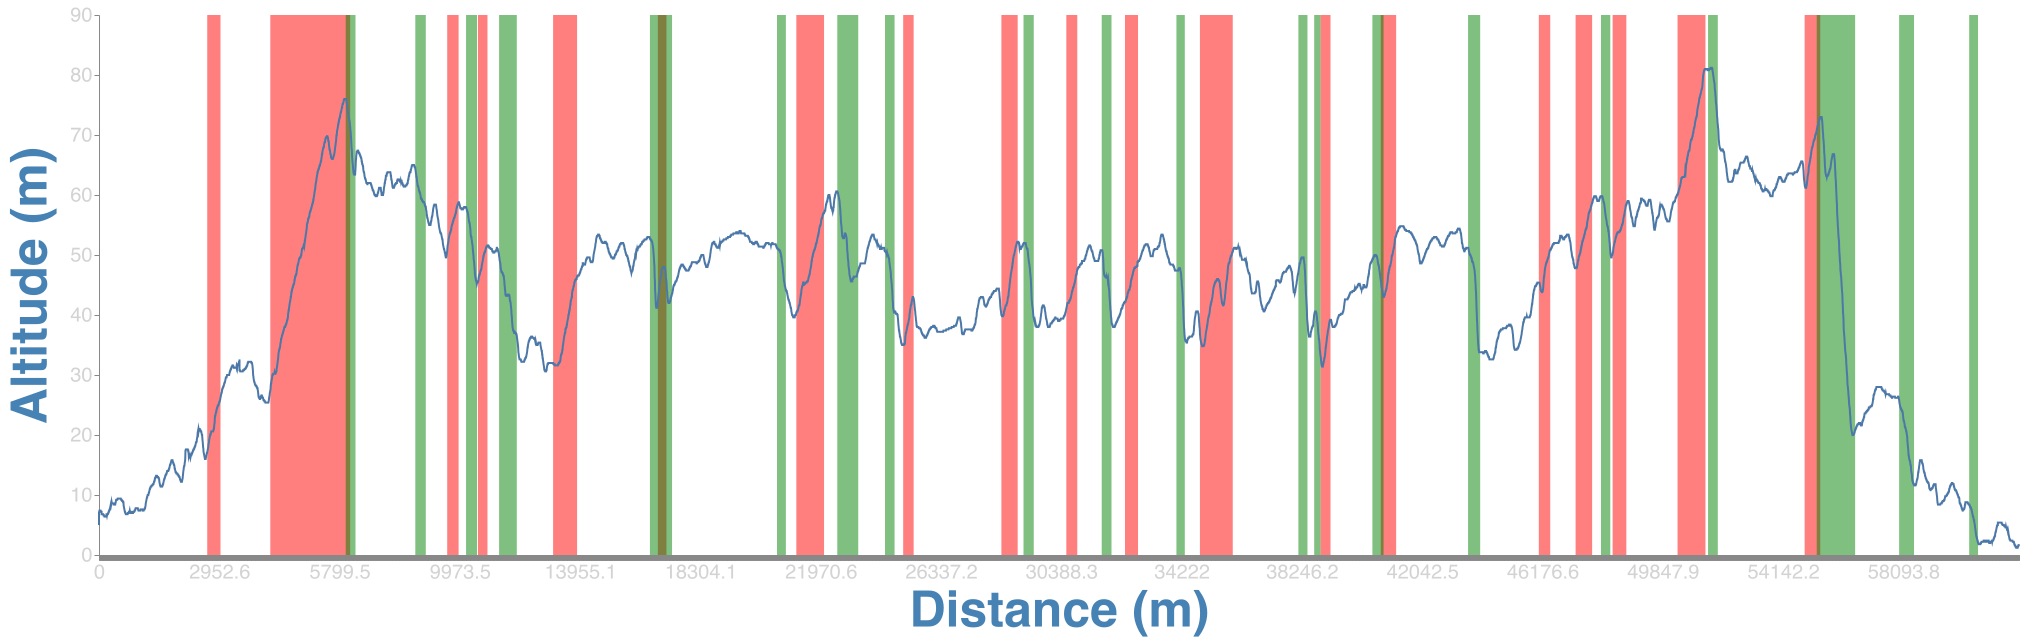
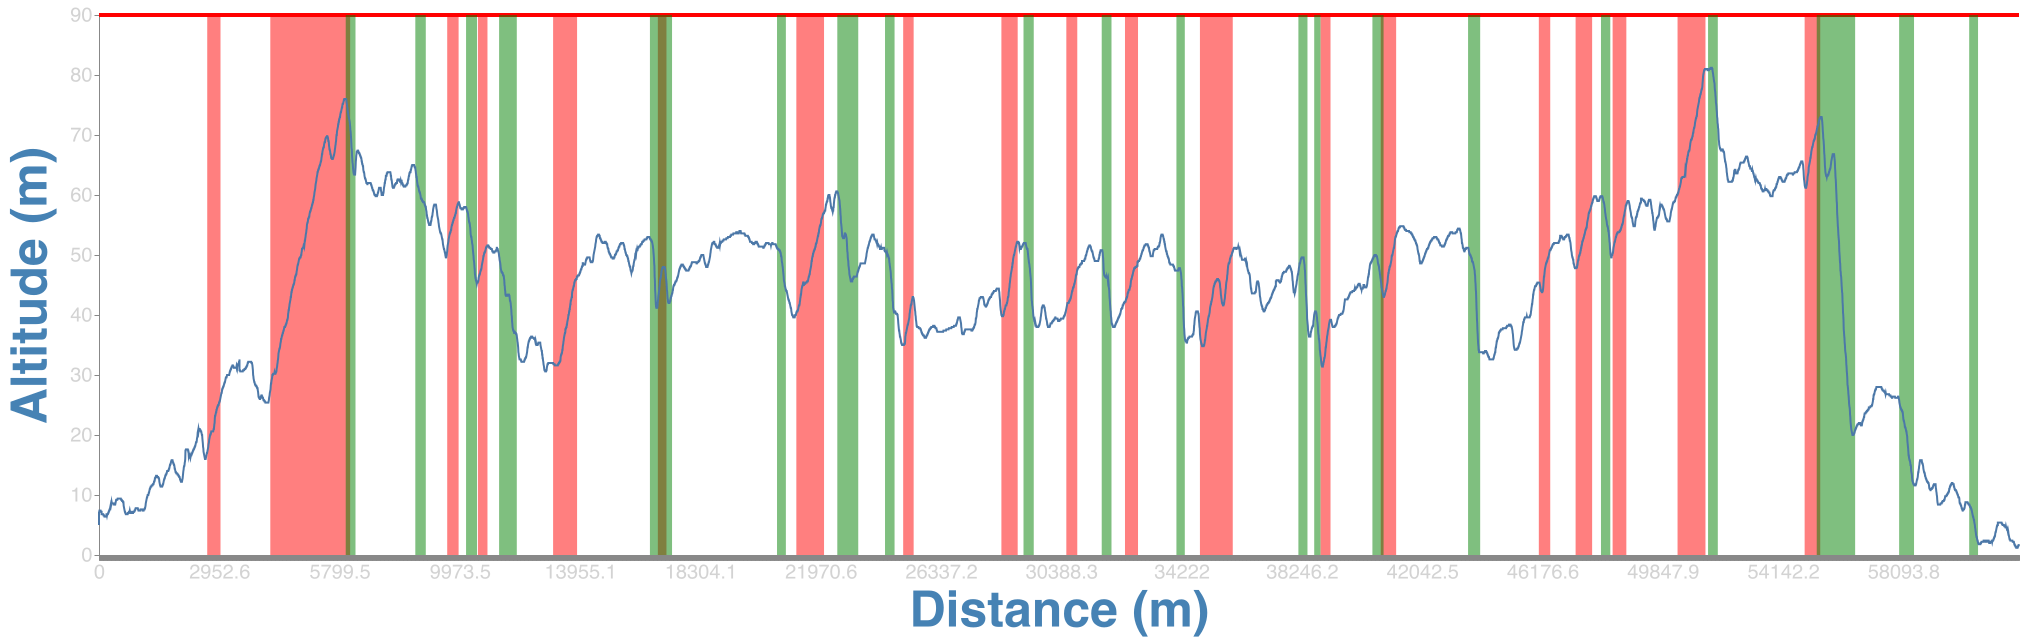
added rule line to power graphs

diff --git a/src/graphRides.js b/src/graphRides.js
@@ -3,6 +3,7 @@ var vega = require("vega");
 var fs = require("fs");
 const sharp = require("sharp");
 const { rideEntry, hillEntry } = require("./rideClassifier.js");
+const { sign } = require("crypto");
 const graphWidthInPixels = 1920;
 const graphHeightInPixels = 540;
 
@@ -32,6 +33,10 @@ const lineChartSpec = {
 					"step-before",
 				],
 			},
+		},
+		{
+			name: "mean_y",
+			value: 0,
 		},
 	],
 
@@ -98,13 +103,31 @@ const lineChartSpec = {
 
 	marks: [
 		{
+			type: "rule",
+			from: { data: "table" },
+			encode: {
+				enter: {
+					stroke: { value: "red" },
+					strokeWidth: { value: 3 },
+					x: { value: 0 },
+					y: { signal: "mean_y" },
+					x2: { value: graphWidthInPixels },
+					y2: { signal: "mean_y" },
+					opacity: {
+						expr: "datum[mean_y] == 0 ? 0 : 1",
+					},
+					sort: { value: "ascending" },
+				},
+			},
+		},
+		{
 			type: "rect",
 			from: { data: "hills" },
 			encode: {
 				enter: {
 					x: { field: "xStart" },
 					y: { value: 0 },
-					height: { value: 540 },
+					height: { value: graphHeightInPixels },
 					width: { field: "xWidth" },
 					fill: { field: "color" },
 					fillOpacity: { value: 0.5 },
@@ -165,7 +188,13 @@ const intervalSpec = {
  * @param {Array<intervalSpec>} intervalSpecs - The intervals to be highlighted
  * @param {String} name - The name of the ride being graphed
  */
-function drawDataStream(dataStream, distanceStream, intervalSpecs, name) {
+function drawDataStream(
+	dataStream,
+	distanceStream,
+	intervalSpecs,
+	name,
+	ruleLine = graphHeightInPixels
+) {
 	// Clone a new spec for the ride chart
 	let rideChartSpec = JSON.parse(JSON.stringify(lineChartSpec));
 
@@ -177,10 +206,13 @@ function drawDataStream(dataStream, distanceStream, intervalSpecs, name) {
 		rideChartSpec.data[0].values.push(dataPoint);
 	}
 
-	// Add hills to the chart
+	// Add intervals to the chart
 	for (let intervalSpec of intervalSpecs) {
 		rideChartSpec.data[1].values.push(intervalSpec);
 	}
+
+	// Set the rule line
+	rideChartSpec.signals[1].value = graphHeightInPixels - ruleLine;
 
 	// create a new view instance for a given Vega JSON spec
 	var view = new vega.View(vega.parse(rideChartSpec))
@@ -251,7 +283,13 @@ function drawRidePower(ride) {
 
 	let name = ride.name.split(" ").join("-") + "PowerGraph";
 
-	drawDataStream(dataStream, distanceStream, intervalSpecs, name);
+	drawDataStream(
+		dataStream,
+		distanceStream,
+		intervalSpecs,
+		name,
+		ride.average_watts
+	);
 }
 
 module.exports = { drawRideAltitude, drawRidePower };
